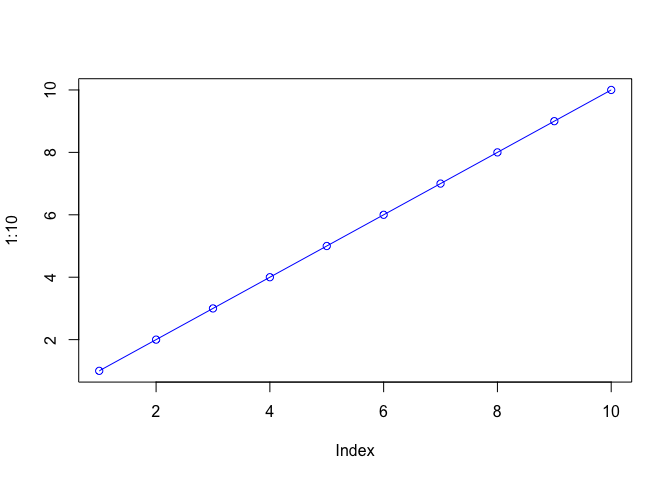
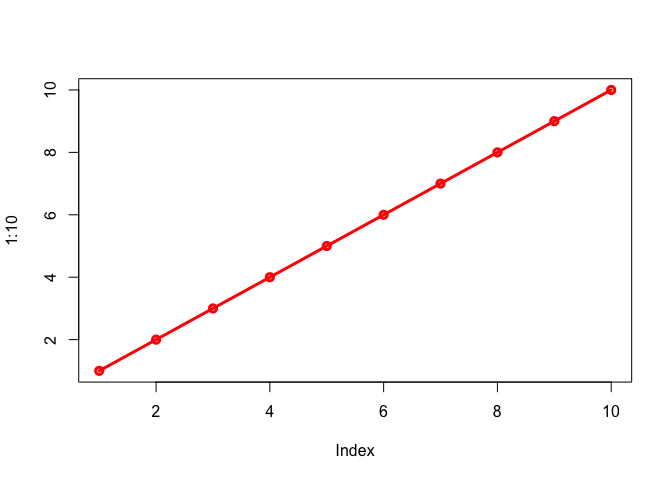
Change to red plot fig1

diff --git a/rstudio_report.md b/rstudio_report.md
@@ -5,7 +5,7 @@ GitHub Documents
 ----------------
 
 ``` r
-plot(1:10, typ="o", col="blue")
+plot(1:10, typ="o", col="red", lwd=3)
 ```
 
 ![](rstudio_report_files/figure-markdown_github/unnamed-chunk-1-1.png)
